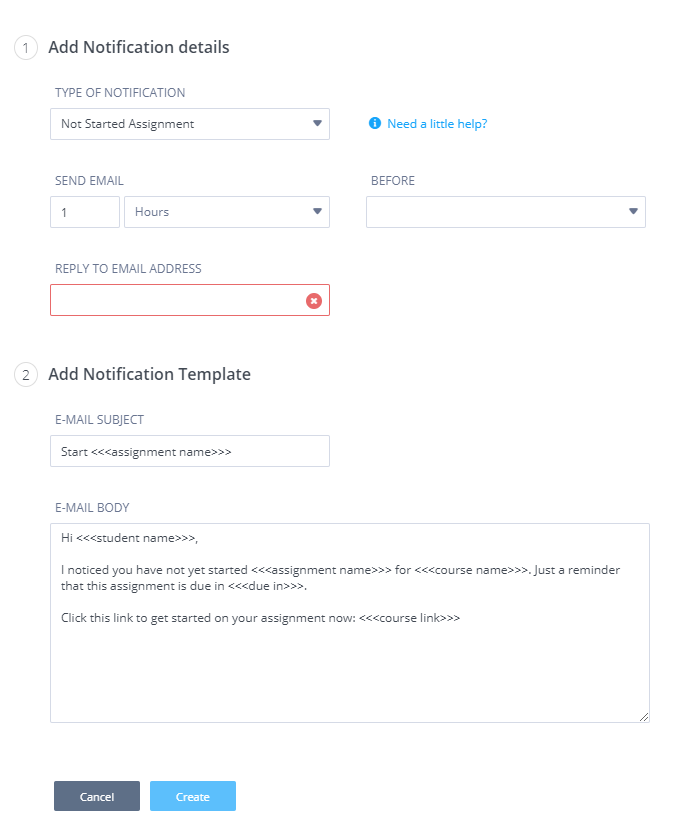
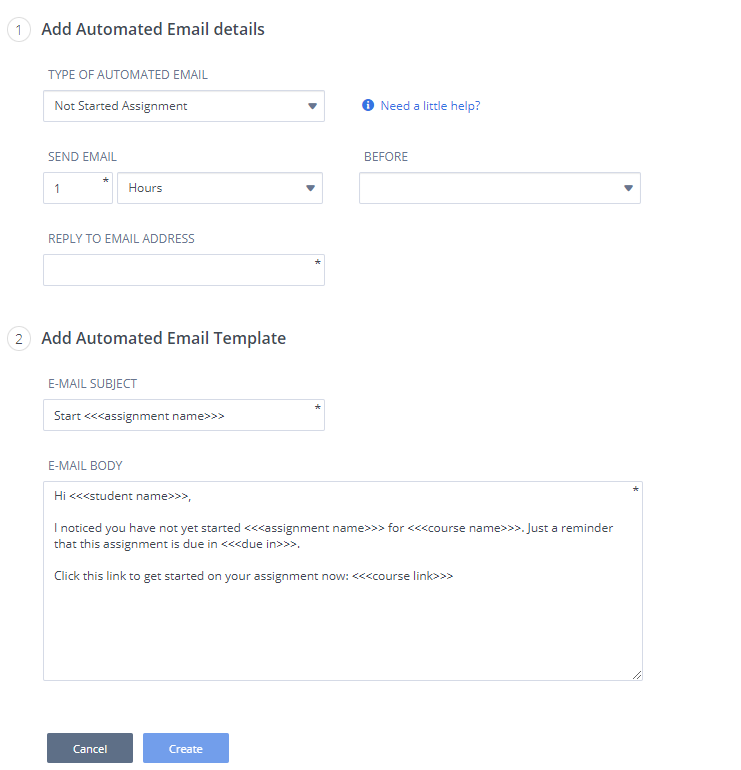
changelog #14060 (#164)

diff --git a/source/instructors/setupcourses/notification-email.rst b/source/instructors/setupcourses/notification-email.rst
@@ -3,16 +3,16 @@
 
 .. _notification-emails:
 
-Notification Emails
-===================
+Automated Emails
+================
 
-Automatic email notifications can be set up in your courses to send emails to your students. Go to the **Notifications** tab in your course to create notifications. Not available for **Read only** teachers in the course.
+Automatic email notifications can be set up in your courses to send emails to your students. Go to the **Automated Emails** tab in your course to create automatic email notifications. Not available for **Read only** teachers in the course.
 
    .. image:: /img/notificationdetails.png
       :alt: Notifications
 
-Notification details
-********************
+Automated Email details
+***********************
 
 - **Not Started Assignment:** you can schedule the notifications to be sent to all students in the course that have never opened the assignment that is due soon
 - **Incomplete Assignment:** you can schedule the notifications to be sent to all students who have started but not finished an assignment that is due soon. Students that have also not started will also be notified
@@ -28,8 +28,8 @@ Before
 
 **Reply to Email Address:** enter an email address that students can then reply to if they have questions or require further assistance.
 
-Notification Template
-*********************
+Automated Email Template
+************************
 
 We prefill a default title name and the body text including links (in the ```<<<  >>>``` tags) that will assist the students.
 
